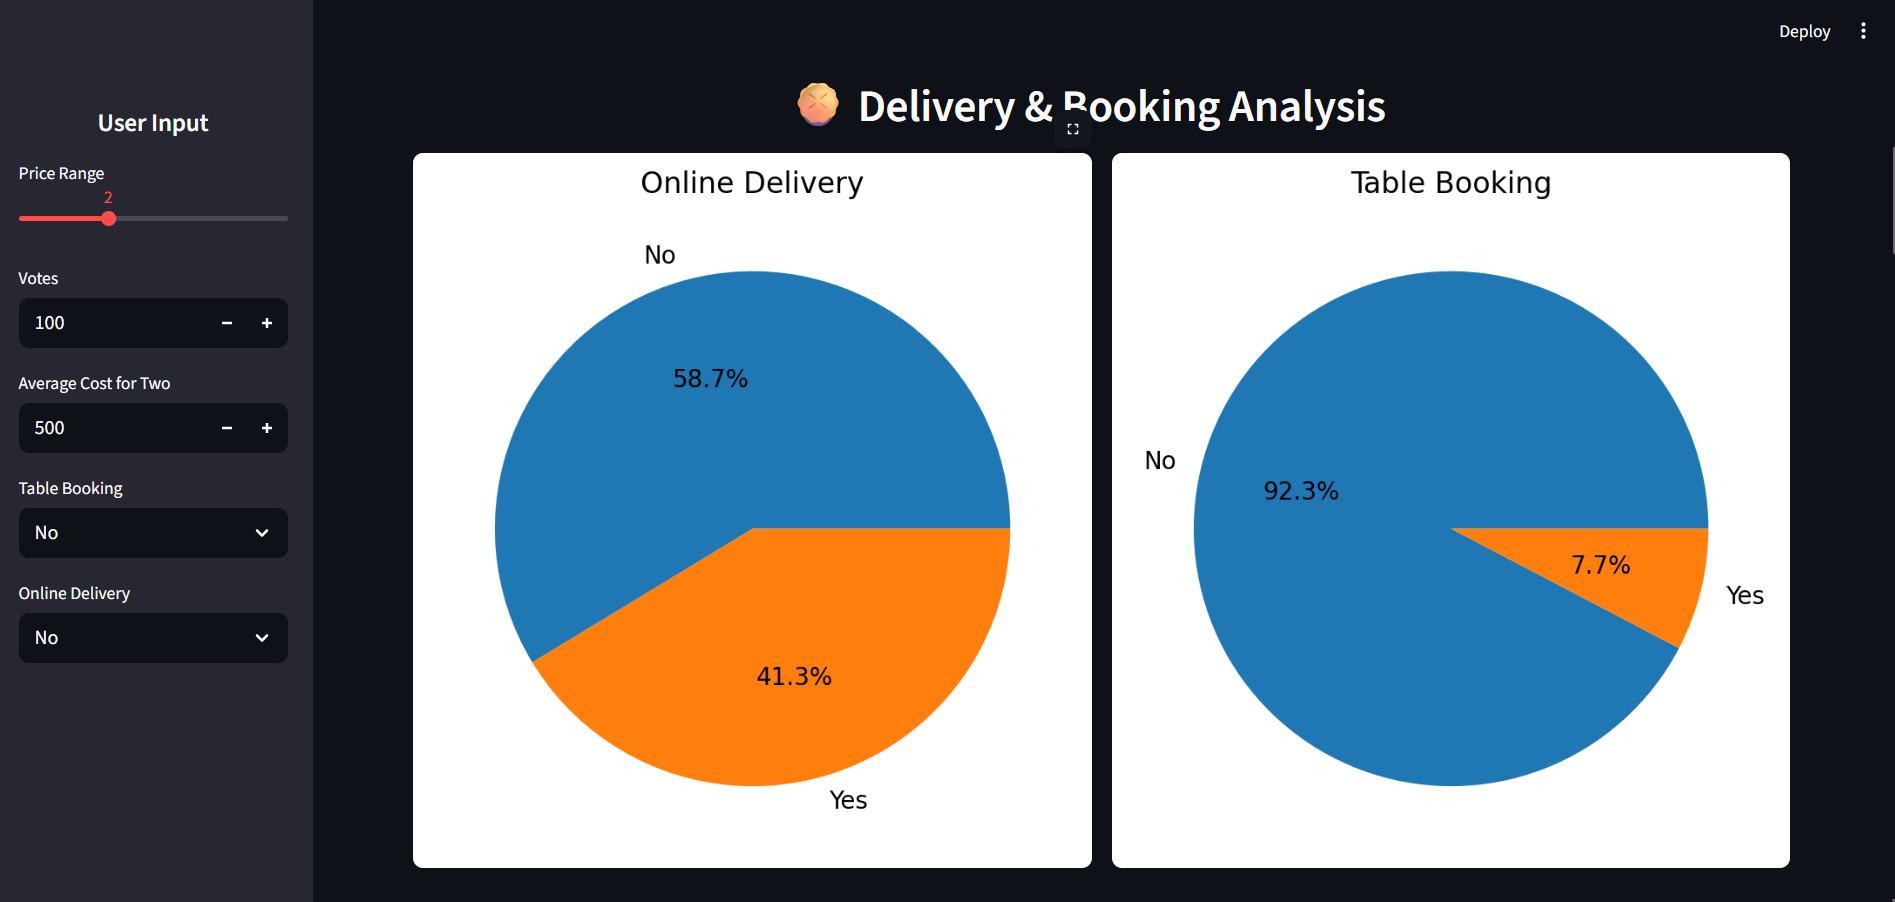
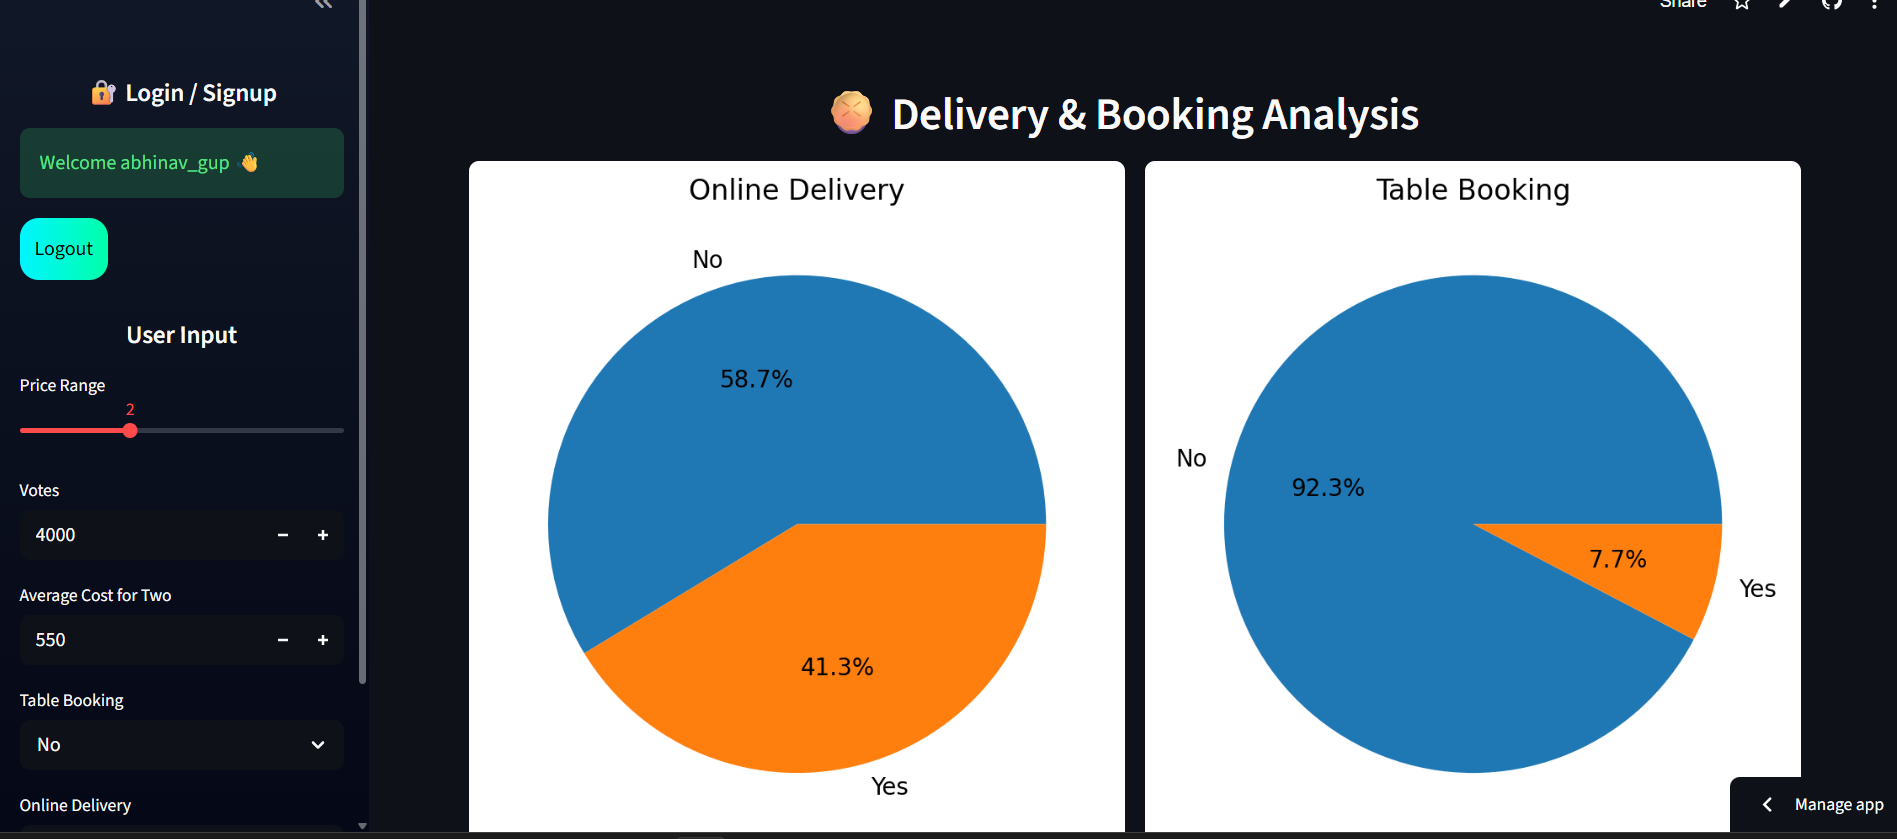
Updated README and screenshots

diff --git a/README.md b/README.md
@@ -153,10 +153,15 @@ Visual representation of restaurant ratings.
 ![Dashboard](screenshots/dashboard.png)
 
 ---
+## 🔐 Login Output
+
+![Login](screenshots/login.png)
+
+---
 
 ## 🤖 Prediction Output
 
-![Prediction](screenshots/prediction.png)
+![Prediction](screenshots/pridiction.png)
 
 ---
 
@@ -168,7 +173,7 @@ Visual representation of restaurant ratings.
 
 ## 🍽 Recommendations
 
-![Output](screenshots/output.png)
+![output](screenshots/map.png)
 
 
 
